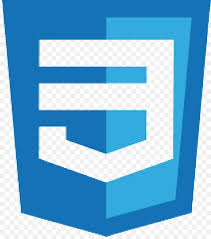
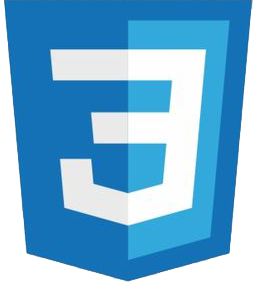
Habilidades

diff --git a/index.html b/index.html
@@ -99,6 +99,36 @@
                 <img src="/assets/icons/habilidades.svg" alt="Habilidades">
                 Habilidades
             </h2>
+            <div class="tech-grid">
+                <div class="tech-item">
+                    <img src="/assets/img/habilidades/HTML5.png" alt="HTML">
+                    <span>HTML5</span>
+                </div>
+                <div class="tech-item">
+                    <img src="/assets/img/habilidades/CSS3.png" alt="CSS">
+                    <span>CSS3</span>
+                </div>
+                <div class="tech-item">
+                    <img src="/assets/img/habilidades/javascript.png" alt="JavaScript">
+                    <span>JavaScript</span>
+                </div>
+                <div class="tech-item">
+                    <img src="/assets/img/habilidades/github.png" alt="GitHUb">
+                    <span>GitHub</span>
+                </div>
+                <div class="tech-item">
+                    <img src="/assets/img/habilidades/mysql.png" alt="MySQL">
+                    <span>MySQL</span>
+                </div>
+                <div class="tech-item">
+                    <img src="/assets/img/habilidades/PHP.png" alt="PHP">
+                    <span>PHP</span>
+                </div>
+                <div class="tech-item">
+                    <img src="/assets/img/habilidades/symfony.png" alt="Symfony">
+                    <span>Symfony</span>
+                </div>
+            </div>
         </section>
     </main>
         <script src="main.js"></script>

diff --git a/style.css b/style.css
@@ -437,6 +437,75 @@ body {
     padding: 0 20px;
 }
 
+.tech-grid {
+    display: grid;
+    grid-template-columns: repeat(4, 1fr);
+    gap: 2rem;
+    width: 100%;
+    padding: 2rem 0;
+}
+
+.tech-item {
+    display: flex;
+    flex-direction: column;
+    align-items: center;
+    gap: 1rem;
+    padding: 1rem;
+}
+
+.tech-item img {
+    width: 80px;
+    height: 80px;
+    object-fit: contain;
+    transition: all 0.3s ease;
+}
+
+.tech-item:hover img {
+    transform: translateY(-8px);
+}
+
+.tech-item span {
+    font-weight: 700;
+    font-size: 1.1rem;
+    color: var(--text-color);
+    letter-spacing: 0.5px;
+    transition: all 0.3s ease;
+    opacity: 0.8;
+}
+
+.tech-item:hover span {
+    opacity: 1;
+    transform: scale(1.05);
+    background: linear-gradient(45deg, var(--text-color), #4A5561);
+    -webkit-background-clip: text;
+    background-clip: text;
+    color: transparent;
+}
+.dark-theme .tech-item:hover span {
+    background: linear-gradient(45deg, #fff, #A8B5C3);
+    -webkit-background-clip: text;
+    background-clip: text;
+}
+
+@media (max-width: 768px) {
+    .tech-grid {
+        grid-template-columns: repeat(3, 1fr);
+        gap: 1.5rem;
+    }
+    
+    .tech-item img {
+        width: 60px;
+        height: 60px;
+    }
+}
+
+@media (max-width: 480px) {
+    .tech-grid {
+        grid-template-columns: repeat(2, 1fr);
+        gap: 1rem;
+    }
+}
+
 /* Dark theme adjustments */
 .dark-theme .section-title {
     background: linear-gradient(50deg, white, #A8B5C3);
